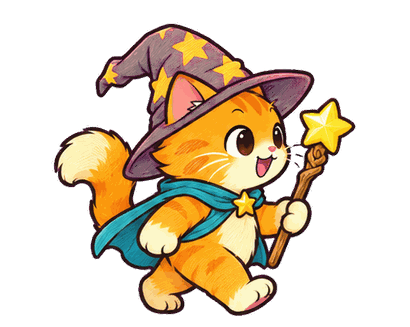
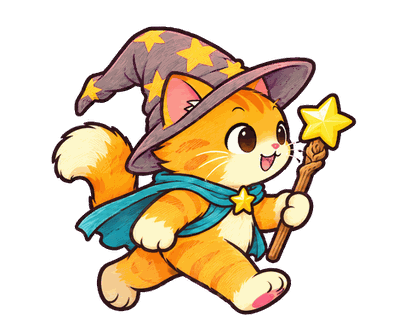
feat(art): walk cycles redone for all five classes — legs now alternate; slicing tools refuse non-magenta sheets (D-038)
- new walk frames (ChatGPT) for novice, warrior, rogue, archer, mage via
  tools/fix_walk.py (scaled to the shipped passing pose, same canvas)
- fix_walk.py / slice_icon_sheet.py abort on a sheet whose border is not
  magenta (a wrong file from Downloads had been picked up once)
- D-038 written; HANDOFF: safe ChatGPT download notes, walk workflow

Changed region(s): [[0.1171, 0.0612, 0.878, 0.9786]]

diff --git a/tools/slice_icon_sheet.py b/tools/slice_icon_sheet.py
@@ -9,7 +9,20 @@ import subprocess
 import sys
 
 ROOT = os.path.abspath(os.path.join(os.path.dirname(__file__), '..'))
+def require_magenta(path: str) -> None:
+    """Stop when the sheet's border is not the magenta key colour — a wrong
+    file (e.g. something else picked up from Downloads) must never be sliced."""
+    import numpy as np
+    from PIL import Image
+    rgb = np.asarray(Image.open(path).convert('RGB'))
+    border = np.concatenate([rgb[:4].reshape(-1, 3), rgb[-4:].reshape(-1, 3),
+                             rgb[:, :4].reshape(-1, 3), rgb[:, -4:].reshape(-1, 3)])
+    r, g, b = np.median(border, axis=0)
+    if not (r > 200 and b > 200 and g < 90):
+        sys.exit(f'ERROR: {path} is not on a magenta background (border {int(r)},{int(g)},{int(b)}) — wrong file?')
+
 name = sys.argv[1]
+require_magenta(f'{ROOT}/assets/raw/sheets/{name}.png')
 v = json.load(open(f'{ROOT}/design/art/icon_sheets.json'))[name]
 r = subprocess.run(
     ['python3', '-I', f'{ROOT}/tools/sprite_slicer/slice_sheet.py',

diff --git a/tools/fix_walk.py b/tools/fix_walk.py
@@ -18,7 +18,20 @@ import tempfile
 from PIL import Image
 
 ROOT = os.path.abspath(os.path.join(os.path.dirname(__file__), '..'))
+def require_magenta(path: str) -> None:
+    """Stop when the sheet's border is not the magenta key colour — a wrong
+    file (e.g. something else picked up from Downloads) must never be sliced."""
+    import numpy as np
+    from PIL import Image
+    rgb = np.asarray(Image.open(path).convert('RGB'))
+    border = np.concatenate([rgb[:4].reshape(-1, 3), rgb[-4:].reshape(-1, 3),
+                             rgb[:, :4].reshape(-1, 3), rgb[:, -4:].reshape(-1, 3)])
+    r, g, b = np.median(border, axis=0)
+    if not (r > 200 and b > 200 and g < 90):
+        sys.exit(f'ERROR: {path} is not on a magenta background (border {int(r)},{int(g)},{int(b)}) — wrong file?')
+
 cls, sheet = sys.argv[1], sys.argv[2]
+require_magenta(sheet)
 OUT = f'{ROOT}/assets/raw/frames/outfit/{cls}'
 
 with tempfile.TemporaryDirectory() as tmp:

diff --git a/DECISIONS.md b/DECISIONS.md
@@ -398,3 +398,16 @@ Log การตัดสินใจของ Opus (Orchestrator/PM) — append
 5. **เทสต์บังคับ** (`app/test/icons_test.dart`): อีโมจิทุกตัวใน code/arb/data ต้องอยู่ใน `icons.json` หรือ `keep_as_text` · ไฟล์ภาพของทุก id มีจริง · id สกิล/เหตุการณ์ตรงกับข้อมูล · ห้ามมี `Icons.` ใน `lib/` · `IconText` ทำงานถูก · helper `findLabel` ใน `_l10n.dart` (test หา label ที่เป็น IconText) · golden ทุกหน้าอัปเดต · APK arm64 27.7 MB
 
 **ยืนยันบนเครื่องจริง (YK, 2026-10-23):** รุ่นที่แก้ Room/WorkManager (D-036 ข้อ 6) เปิดเข้าเกมได้แล้วบน Samsung SM-S948B (Android 17) · หน้าแสดงข้อผิดพลาดของรุ่นทดสอบยังอยู่ ต้องถอดก่อนขึ้น Play
+
+## D-038 (2026-10-23) — Sonnet+Opus advisor — แก้ตามการทดสอบบนมือถือ รอบ 1 (11 ข้อของ YK)
+
+ทำแล้ว (ข้อ 10 เพื่อนสัตว์ + 11 หน้าหลักใหม่ = รอบถัดไป):
+1. **ของถักค้างบนจอ:** `KnitPop` แบบ "ได้ของ" ค้างโปร่งแสง 100% ถาวรและ `_pop` ไม่เคยถูกล้าง (จางเพราะแม่สีหรี่ตอนไหมหมด) → ทั้งสองแบบค่อยๆ จางหาย + เรียก `onDone` เคลียร์ · test `knit_pop_test`
+2. **ท่าเดิน:** ตรวจภาพแล้วจริง — walk 1 กับ 3 เป็นท่าเดียวกัน (ขาหน้าข้างเดียวกัน) · วาดใหม่ 5 คลาส (3 ท่า: ก้าวขาใกล้ / ผ่านกลาง / สลับขา ขาไกลก้าวหน้า ขาใกล้พับยกส้นเท้า) ผ่านแชทเดิม (prompt ที่นี่: ท่าที่ 3 ต้องอธิบายกายวิภาคตรงๆ ไม่งั้น ChatGPT วาดซ้ำท่า 1) · `tools/fix_walk.py <class> <sheet>` ย่อให้ท่ายืนผ่านสูงเท่าของเดิมแล้ววางบน canvas เดิม (เท้าบนเส้นพื้น กลางตัวเดียวกัน) · ทูลมีตัวกันไฟล์ผิด (ขอบภาพต้องเป็นสีชมพู magenta)
+3. **วงสกิล:** วงมืดหมุนตามเวลาที่เหลือ + ตัวเลขวินาที (วินาทีจริง = เวลาเกม ÷ ความเร็วเกม) · ตอนไม่ได้สู้ไม่มีวง · ชื่อสกิลลอยเหนือผู้ร่าย (โมจิ/มอน) ตอน `SkillCast`
+4. **หลอดเลือด:** โมจิ มอนทุกตัว (หลอดบอสกว้างกว่า) · ไหลลงนุ่มๆ · แถบฟ้าบางๆ = เกราะ · อ่านจาก **`IdleLoop.fightView`** (ใหม่ใน wt_core: `UnitView`/`SkillView` — hp, maxHp, shield, cooldown ที่เหลือ/ทั้งหมดของทุกสกิล · อ่านอย่างเดียว ไม่กระทบผลการสู้ · test เทียบ event เท่ากันและตัวเลขคูลดาวน์ถูก) · เพื่อนสัตว์ไม่มีหลอด (ไม่ถูกโจมตี)
+5. **หน้าต่าง Fail:** การ์ดเล็กกลางฉาก (ไอคอนแมวเศร้า + "แพ้แล้ว!" + ข้อความปลอบ + เคล็ดลับหมุนเวียน) เมื่อแพ้บอส หรือแพ้คลื่นติดกัน (1 ใบต่อ 1 ชุดที่แพ้ ไม่ใช่ทุกครั้งที่ลองใหม่) · หายเองใน 3 วิ หรือแตะ · **ไม่หยุดเกม ไม่ใช่ modal ไม่มีปุ่มดูโฆษณา/ลองใหม่** (GDD §14, D-008) · test ครอบ
+6. **ตราคลาส:** 5 ตรา + ลูกธนู วาดใน sheet ใหม่ (`sheet_icons_6_class`) → ต่อท้ายชื่อคลาสหน้าแมว + ปุ่มเลือกคลาส (`icons.json` → `classes`)
+7. **ไอคอนไม่มีคำ:** ไล่ตรวจทุกจุด → เพิ่มคำสั้นๆ ข้างค่าสถานะหน้าแมว (หลบ/คริ/สกิล), พลัง, ตัวนับเงินมุมจอ (ปลาทอง/ไหมพรม/ไข่), รางวัลตอนกลับมา, การเทียบของตอนถัก, การันตีสุ่ม · ชิปเหตุการณ์ระหว่างทางโชว์ชื่อเหตุการณ์ (TH/EN จากข้อมูล) · ที่ยังเป็นไอคอนล้วนโดยตั้งใจ: ปุ่มหลักที่มีป้ายในตัว (ปุ่มท้าบอส ไหมพรม)
+8. **ลูกธนู:** ข้อมูลใน `mochi_sprites.json → projectiles` (คลาส → ภาพ, เวลาบิน, จุดปล่อย, ความยาว) ไม่ผูกชื่อคลาสในโค้ด · ธนูบินจากคันธนูไปหามอน ~0.15 วิ แล้วตัวเลขดาเมจถึงจะขึ้นตอนลูกธนูถึง
+9. **เพื่อนสัตว์ถูกบัง:** โมจิยืนขวาขึ้น (40% ของความกว้าง) เพื่อนสัตว์เรียงสลับฟันปลาด้านซ้าย (แถวหลังสูงกว่า/เล็กกว่า) ไม่ทับตัวโมจิ · ตำแหน่งมอนขยับขวาตาม

diff --git a/_dispatch/HANDOFF.md b/_dispatch/HANDOFF.md
@@ -118,6 +118,13 @@ Not for v1.0: T-032 (endless, P2) and HOLD_T-047 (dungeon, v1.1).
 
 All UI icons are painted art, not emoji. To add an icon: draw it (sheet prompt style in `design/art/icon_prompts.md`; same ChatGPT chat; send the prompt by JS `document.execCommand('insertText')` into the composer — typing with newlines sends the message early) → save as `assets/raw/sheets/<sheet>.png` and list the ids in `design/art/icon_sheets.json` → `python3 -I tools/slice_icon_sheet.py <sheet>` → `python3 tools/sync_sprites.py` → map the emoji in `design/art/icons.json` (or add to `keep_as_text`) → `bash tools/sync_content.sh`. Draw with `IconText` / `GameIcon`, never `Text` with an emoji or `Icons.*` (tests fail). Purple art needs the slicer's `--spill-start 110`, already set in `slice_icon_sheet.py`.
 
+## 5c. Downloading from ChatGPT safely, walk frames
+
+- The image viewer shows an **intermediate** image while ChatGPT is still refining ("Worked for …", stop button visible). Wait until the stop button is gone, then open the final image and download.
+- **Never** take `ls -t ~/Downloads | head -1`: on 2026-10-23 that moved YK's own file into the repo (put back unchanged, nothing sent). Take the file by the exact new name with a fresh mtime. `fix_walk.py` and `slice_icon_sheet.py` now refuse a sheet whose border is not magenta.
+- Walk frames: `python3 -I tools/fix_walk.py <class> assets/raw/sheets/sheet_walk_<class>.png` replaces `assets/raw/frames/outfit/<class>/walk_f1..3.png`, then `python3 tools/sync_sprites.py`. The prompt that works describes pose 3 anatomically (far leg forward, near leg bent behind with the heel up); the vaguer "other leg forward" wording was ignored.
+- Sending a prompt: insert the text with `execCommand('insertText')`, then press Return in the composer (the blue send button click can miss).
+
 ## 6. Commands
 
 ```bash
